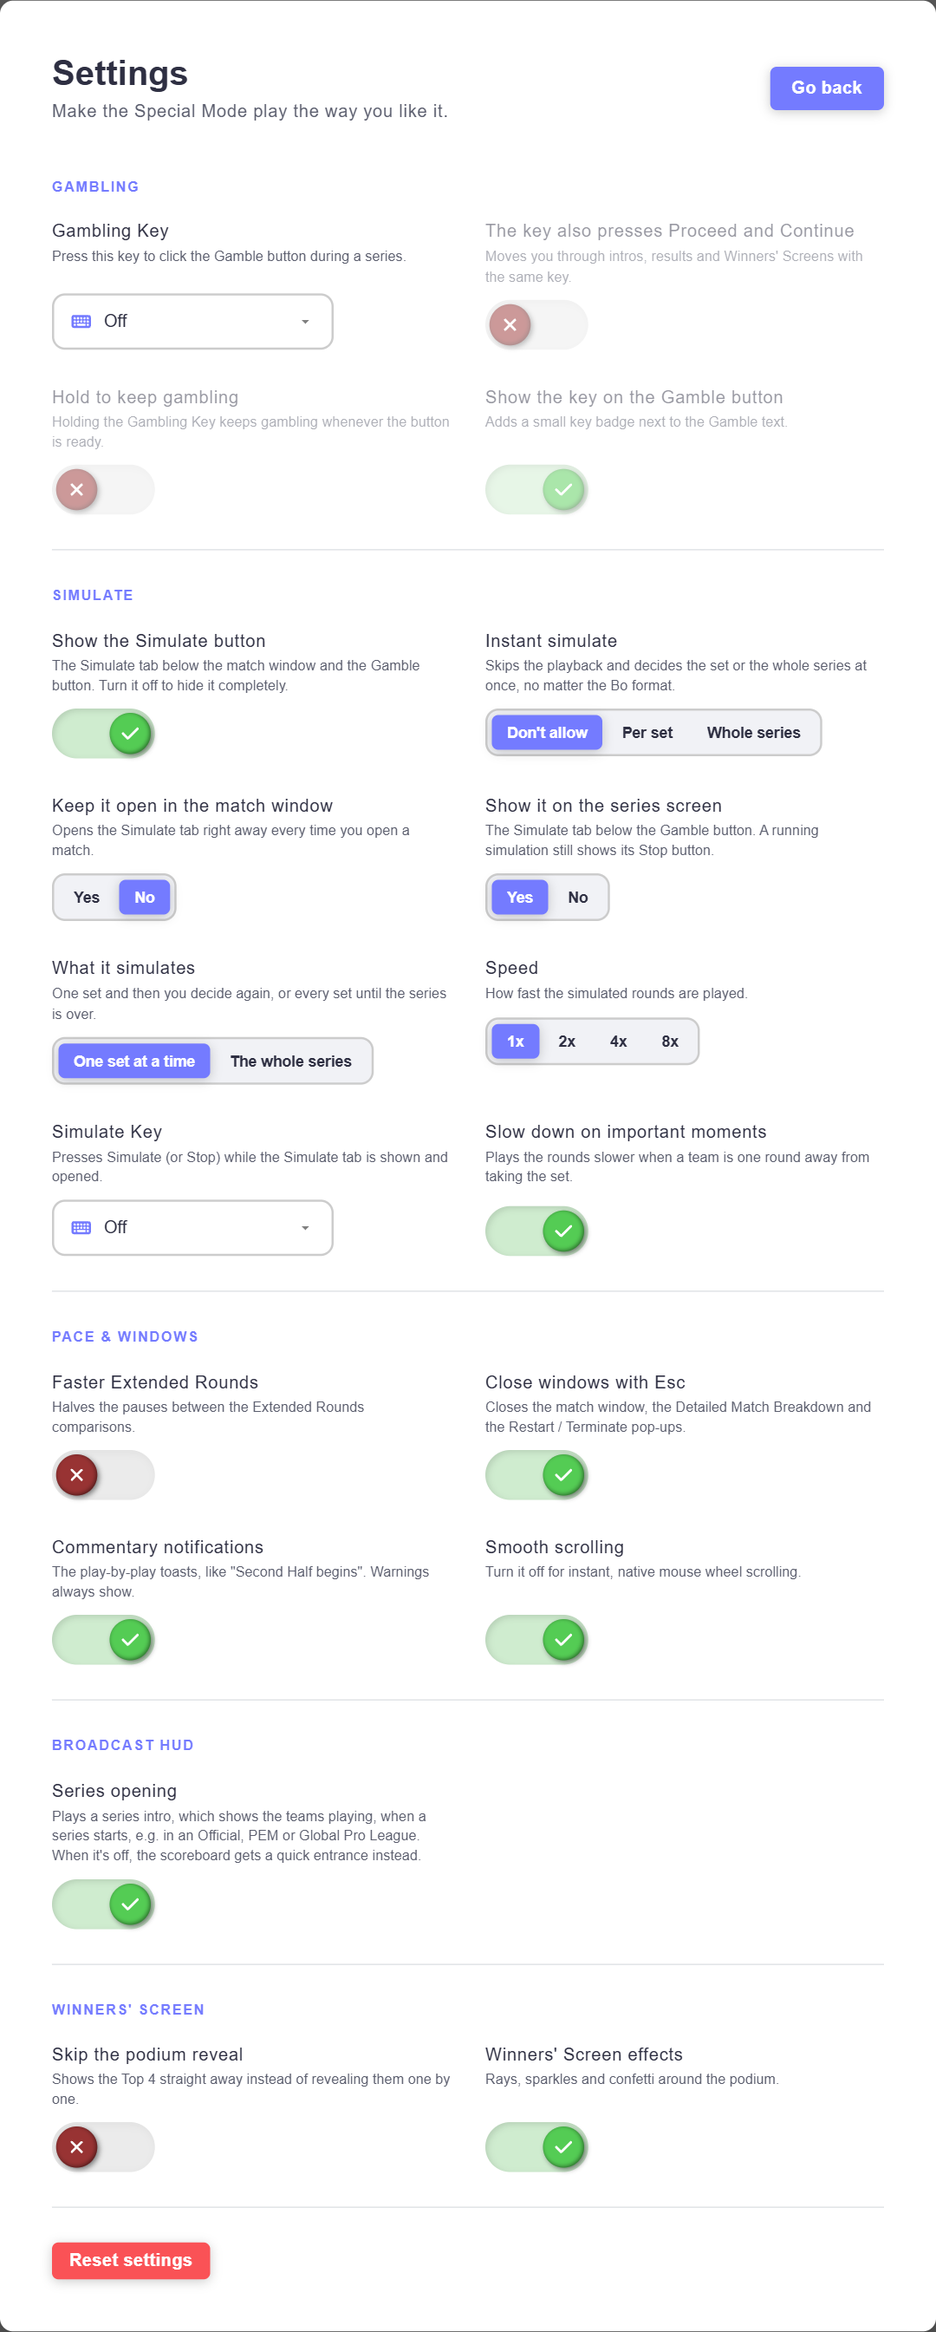
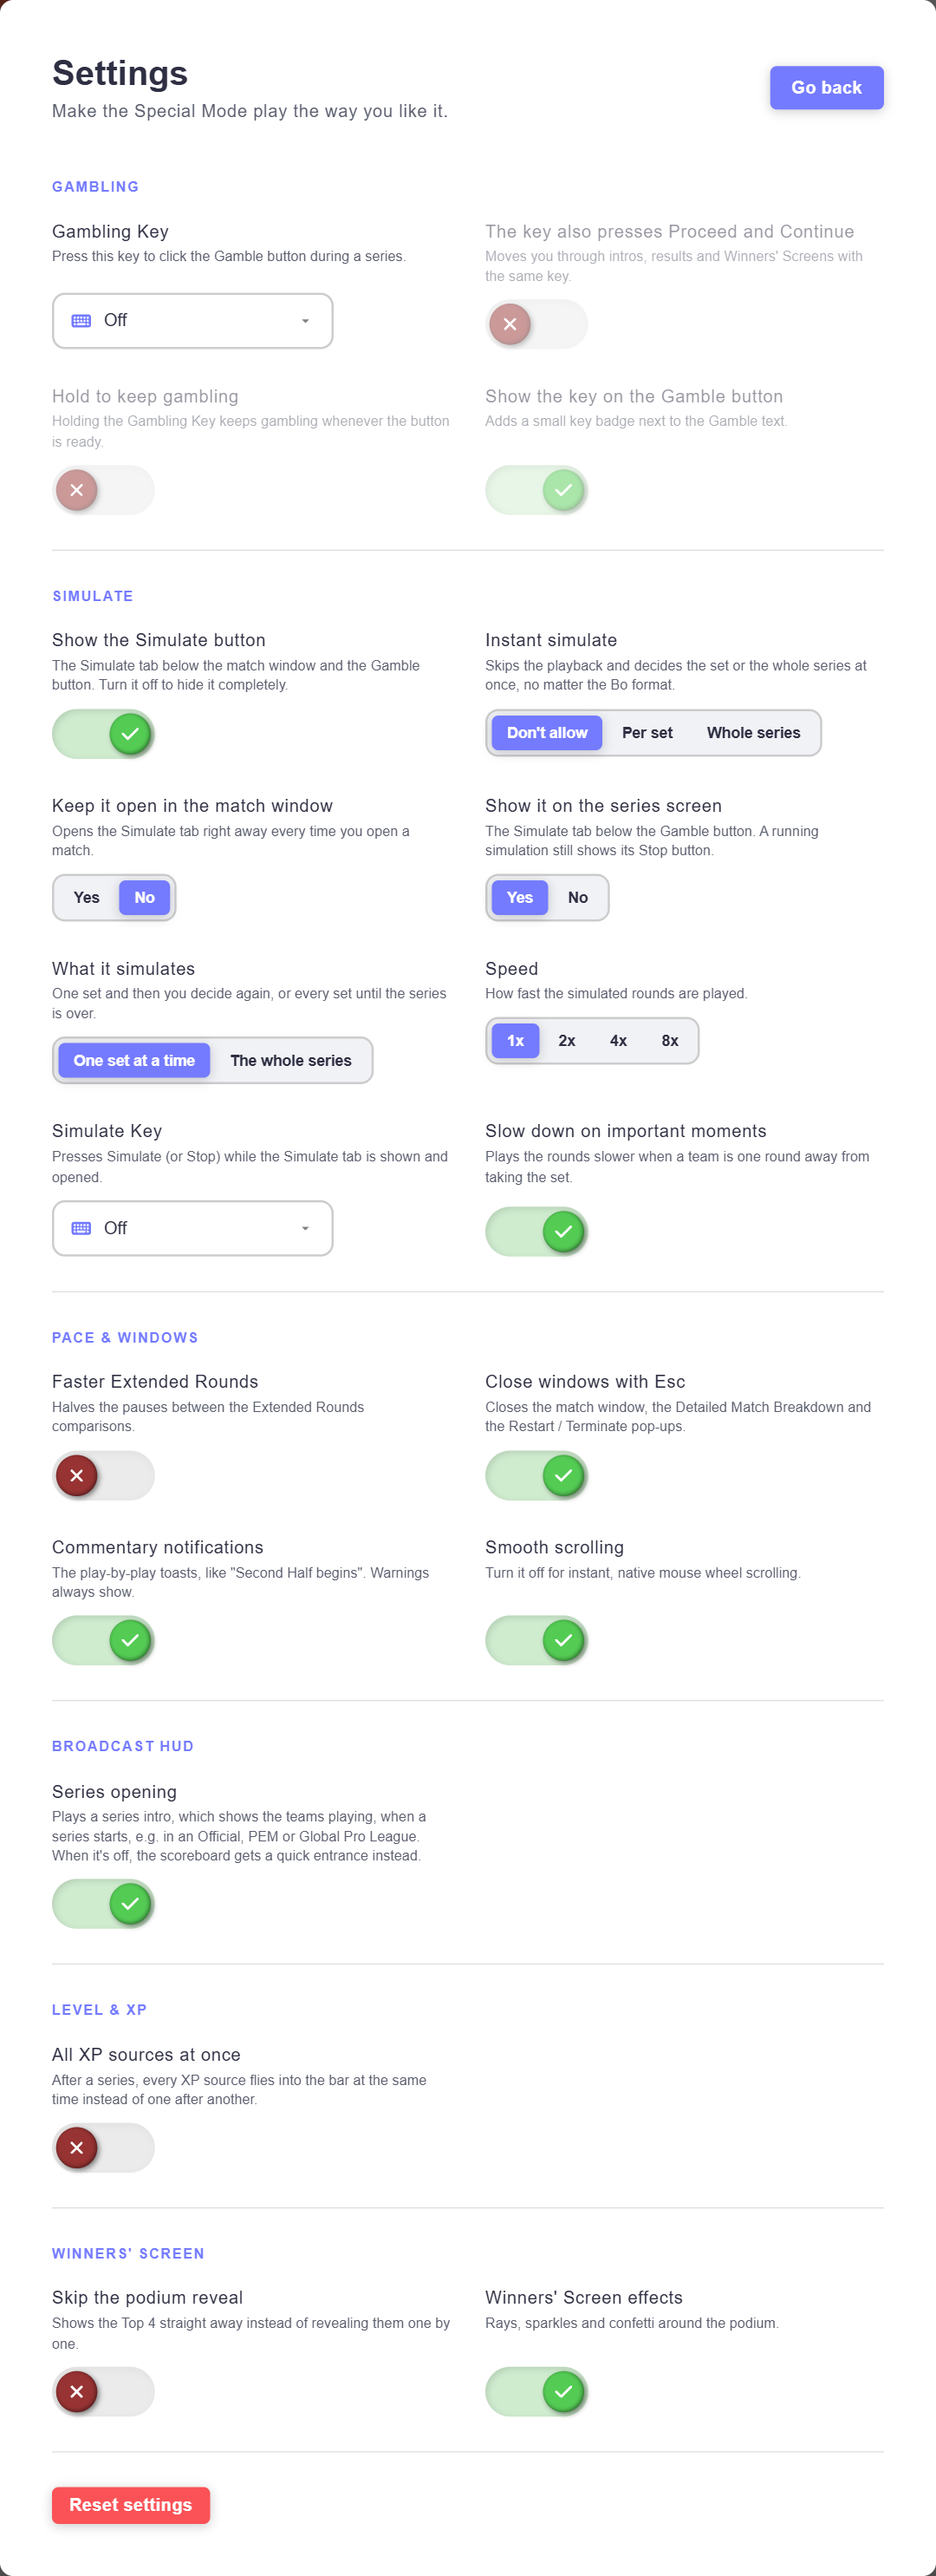
Add a new option in Settings: simultaneous animation of all sources of XP income after a match

diff --git a/src/pages/SpecialModePage/progress/ProgressLayer.jsx b/src/pages/SpecialModePage/progress/ProgressLayer.jsx
@@ -220,7 +220,7 @@ function AchievementPop({ gain }) {
     );
 }
 
-function useQueueRunner({ xpMV, barRef, setWidget, setChips, setAchievement, chipRefs }) {
+function useQueueRunner({ xpMV, barRef, setWidget, setChips, setAchievement, chipRefs, allAtOnce }) {
     const { progress, ui } = useProgress();
     const runningRef = useRef(null);
     const closeTimerRef = useRef(null);
@@ -258,8 +258,15 @@ function useQueueRunner({ xpMV, barRef, setWidget, setChips, setAchievement, chi
                 const chips = aggregateGains(item.gains).slice(-6);
                 setChips(chips.map((chip) => ({ ...chip, state: "wait" })));
                 await wait(260 / speed);
+                if (allAtOnce && chips.length > 1) {
+                    setChips((list) => list.map((c) => ({ ...c, state: "fly" })));
+                    const to = barTargetOf(barRef.current, item.fromXp);
+                    await Promise.all(chips.map((chip, i) => flyToken({ from: centerOf(chipRefs.current[i]), to, text: `+${formatXp(chip.xp)} XP`, duration: 0.55 / speed })));
+                    await tweenXp(xpMV, item.fromXp, item.toXp, { speed });
+                    setChips((list) => list.map((c) => ({ ...c, state: "done" })));
+                }
                 let cursor = item.fromXp;
-                for (let i = 0; i < chips.length; i++) {
+                for (let i = 0; i < chips.length && !(allAtOnce && chips.length > 1); i++) {
                     setChips((list) => list.map((c, j) => (j === i ? { ...c, state: "fly" } : c)));
                     const from = centerOf(chipRefs.current[i]);
                     await flyToken({ from, to: barTargetOf(barRef.current, cursor), text: `+${formatXp(chips[i].xp)} XP`, duration: 0.55 / speed });
@@ -293,7 +300,7 @@ function useQueueRunner({ xpMV, barRef, setWidget, setChips, setAchievement, chi
 
 export function ProgressLayer() {
     const { progress, ui } = useProgress();
-    const { closeWithEscape } = useSpecialModeSettings();
+    const { closeWithEscape, xpAllAtOnce } = useSpecialModeSettings();
     const xpMV = useMotionValue(ui.displayXp);
     const level = useLevelOf(xpMV);
     const [widget, setWidget] = useState(false);
@@ -336,7 +343,7 @@ export function ProgressLayer() {
         return () => window.removeEventListener("keydown", onKey);
     }, [ui.screen, closeWithEscape]);
 
-    useQueueRunner({ xpMV, barRef, setWidget, setChips, setAchievement, chipRefs });
+    useQueueRunner({ xpMV, barRef, setWidget, setChips, setAchievement, chipRefs, allAtOnce: xpAllAtOnce });
 
     return (
         <>

diff --git a/src/pages/SpecialModeInfoPage/SpecialModeInfoPage.jsx b/src/pages/SpecialModeInfoPage/SpecialModeInfoPage.jsx
@@ -1014,6 +1014,8 @@ const OfficialSubPage = ({ scrollToAnchor }) => (
                 <br />• <b>Commentary notifications</b>: turn them off to hide the play-by-play notifications, like "Second Half begins" (the warnings will still be shown)
                 <br />• <b>Smooth scrolling</b>: turn it off, if you prefer the instant, normal mouse wheel scrolling
                 <br />• <b>Series opening</b>: plays a short intro with both teams, every time a series starts. When it&apos;s off, the scoreboard just makes a quick entrance instead
+                <br />• <b>All XP sources at once</b>: after a series, every XP source on the XP card flies into the level bar at the same time, instead of one after another (more on the XP card in{" "}
+                <a style={{ color: 'Highlight', fontStyle: 'italic' }} onClick={scrollToAnchor("levels-explained")} href='#levels-explained'>Levels, XP and Achievements</a>)
                 <br />• <b>Skip the podium reveal</b>: the Winners&apos; Screen shows the whole Top 4 at once instead of revealing them one by one
                 <br />• <b>Winners&apos; Screen effects</b>: the rays, sparkles and confetti around the podium
             </p>
@@ -1558,7 +1560,7 @@ const OfficialSubPage = ({ scrollToAnchor }) => (
             </p>
             <LevelShot n={2} alt="Series screen of the Grand Final with the INSURED 50% chip next to the BEST OF badge" />
             <p className={css.info_text}>
-                Right after every series, a small card slides in below the level button: the level circle, the XP bar and every source of the XP as its own chip, one after another, like "Series played", "Pick&apos;em points", "Grand Final", "Overtimes" or the "Daily warm-up" for the first series of the day.
+                Right after every series, a small card slides in below the level button: the level circle, the XP bar and every source of the XP as its own chip, one after another (or all of them at once with the "All XP sources at once" setting), like "Series played", "Pick&apos;em points", "Grand Final", "Overtimes" or the "Daily warm-up" for the first series of the day.
                 And when the bar is full, the circle pops with a golden wave and a rising "LEVEL UP!":
             </p>
             <LevelShot n={3} alt="The XP card after the Grand Final with its XP chips and the LEVEL UP! effect on the level circle" />

diff --git a/src/pages/SpecialModePage/components/SettingsPanel.jsx b/src/pages/SpecialModePage/components/SettingsPanel.jsx
@@ -593,6 +593,18 @@ export function SettingsPanel({ settings, onChange, open, setOpen }) {
                             </div>
 
                             <div className={css.settings_divider} />
+                            <h3 className={css.settings_section_title}>Level & XP</h3>
+                            <div className={css.settings_row}>
+                                <SettingsSwitch
+                                    id="settings-xp-all-at-once"
+                                    label="All XP sources at once"
+                                    hint="After a series, every XP source flies into the bar at the same time instead of one after another."
+                                    checked={settings.xpAllAtOnce}
+                                    onChange={update("xpAllAtOnce")}
+                                />
+                            </div>
+
+                            <div className={css.settings_divider} />
                             <h3 className={css.settings_section_title}>Winners&apos; Screen</h3>
                             <div className={css.settings_row}>
                                 <SettingsSwitch

diff --git a/src/pages/SpecialModePage/logic/settings.js b/src/pages/SpecialModePage/logic/settings.js
@@ -14,6 +14,7 @@ export const DEFAULT_SETTINGS = {
     podiumEffects: true,
     skipPodiumReveal: false,
     broadcastIntro: true,
+    xpAllAtOnce: false,
     simulateEnabled: true,
     simulateMode: "set",
     simulateSpeed: 1,
